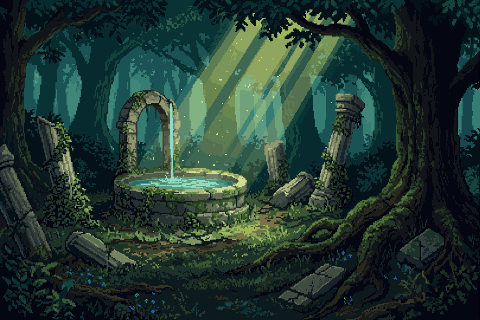
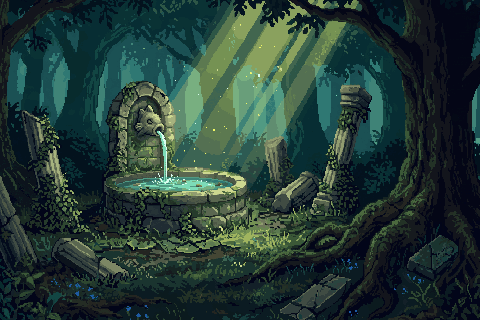
art(events): fountain redrawn with a visible fish-head spout feeding the basin; ambient realigned

diff --git a/src/Client/src/components/ambient/ambientScenes.ts b/src/Client/src/components/ambient/ambientScenes.ts
@@ -189,19 +189,21 @@ export const AMBIENT_SCENES: Readonly<Record<string, AmbientScene>> = {
   // ---------------- イベント（480×320） ----------------
   event_blessing_fountain: {
     src: EVENT('blessing_fountain'), width: 480, height: 320,
-    // 2026-11-28 描き直し（PixelLab）。上の切れ間（x 290、y 0）から左下の泉へ差す木漏れ日。
+    // 2026-11-28 描き直し（PixelLab）。上の切れ間（x 280、y 0）から左下の泉へ差す木漏れ日。
+    // 水は岩壁の魚の吐水口（x 161、y 132）から水盤（中心 x 170、y 184）へ落ちる。
     rays: [
-      { x: 292, y: 0, w: 74, h: 200, angle: 32, color: 'rgba(226, 246, 196, 1)', min: 0.06, max: 0.18, period: 11 },
-      { x: 318, y: 0, w: 40, h: 180, angle: 36, color: 'rgba(226, 246, 196, 1)', min: 0.04, max: 0.13, period: 9, delay: -4 },
+      { x: 282, y: 0, w: 76, h: 200, angle: 26, color: 'rgba(226, 246, 196, 1)', min: 0.06, max: 0.18, period: 11 },
+      { x: 312, y: 0, w: 42, h: 180, angle: 30, color: 'rgba(226, 246, 196, 1)', min: 0.04, max: 0.13, period: 9, delay: -4 },
     ],
     glows: [
-      { x: 182, y: 183, r: 62, ry: 18, color: '#7fe8ff', min: 0.08, max: 0.2, period: 6, style: 'pulse' },
-      { x: 172, y: 140, r: 8, ry: 40, color: '#b6f4ff', min: 0.06, max: 0.16, period: 2.4, style: 'pulse' },
+      { x: 172, y: 184, r: 66, ry: 12, color: '#7fe8ff', min: 0.08, max: 0.2, period: 6, style: 'pulse' },
+      { x: 163, y: 156, r: 7, ry: 24, color: '#b6f4ff', min: 0.06, max: 0.18, period: 2.4, style: 'pulse' },
     ],
     particles: [
-      { kind: 'mote', count: 16, area: { x: 170, y: 30, w: 140, h: 140 }, colors: ['#f5ffd2', '#e2f5b6'], duration: 11, opacity: 0.7 },
-      { kind: 'sparkle', count: 8, area: { x: 125, y: 172, w: 115, h: 22 }, colors: ['#d4fdff'], duration: 4.5, opacity: 0.8 },
-      { kind: 'sparkle', count: 5, area: { x: 70, y: 265, w: 330, h: 50 }, colors: ['#8ec8ff'], duration: 6, opacity: 0.6 },
+      { kind: 'mote', count: 16, area: { x: 180, y: 40, w: 140, h: 130 }, colors: ['#f5ffd2', '#e2f5b6'], duration: 11, opacity: 0.7 },
+      { kind: 'sparkle', count: 8, area: { x: 115, y: 176, w: 125, h: 16 }, colors: ['#d4fdff'], duration: 4.5, opacity: 0.8 },
+      { kind: 'sparkle', count: 4, area: { x: 150, y: 172, w: 24, h: 10 }, colors: ['#ffffff'], duration: 2.5, opacity: 0.7 },
+      { kind: 'sparkle', count: 5, area: { x: 60, y: 265, w: 340, h: 50 }, colors: ['#8ec8ff'], duration: 6, opacity: 0.6 },
     ],
   },
   event_forgotten_forge: {

diff --git a/docs/art/backgrounds-prompts.md b/docs/art/backgrounds-prompts.md
@@ -49,6 +49,8 @@ node tools/art-pipeline/pixellab.mjs gen2 --bg --w 480 --h 320 --colors 64 --see
   最後に「Full-bleed scene to all four edges, nothing transparent. No text, no letters, no UI, no buttons, no frame, no border, no vignette.」を付ける。
 - 出来た画像は `art/source/backgrounds/events/<id>.png` にそのまま置き、横の `<id>.json` に `"mode": "native"` を書く（縮め直さない）。
 - 戦闘・マップ（640×360）も同じ方法で作れる（generate-image-v2 は横 792・縦 688 まで）。
+- 水や光など「どこから来るか」を具体的に書く（泉は「岩壁の魚の形の吐水口から水が弧を描いて落ちる」と書いて直った）。
+- 気に入った案の構図を残して直したい時は、その画像を `--ref "<画像>::composition, layout and mood to keep"` で渡す。
 
 ## Gemini で作る時のこと（2026-11-28）
 
